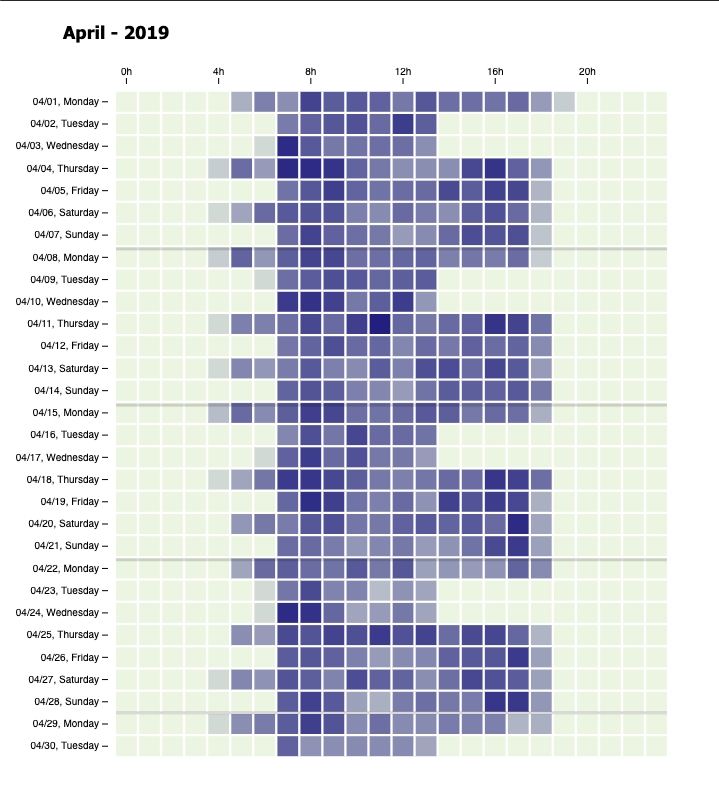
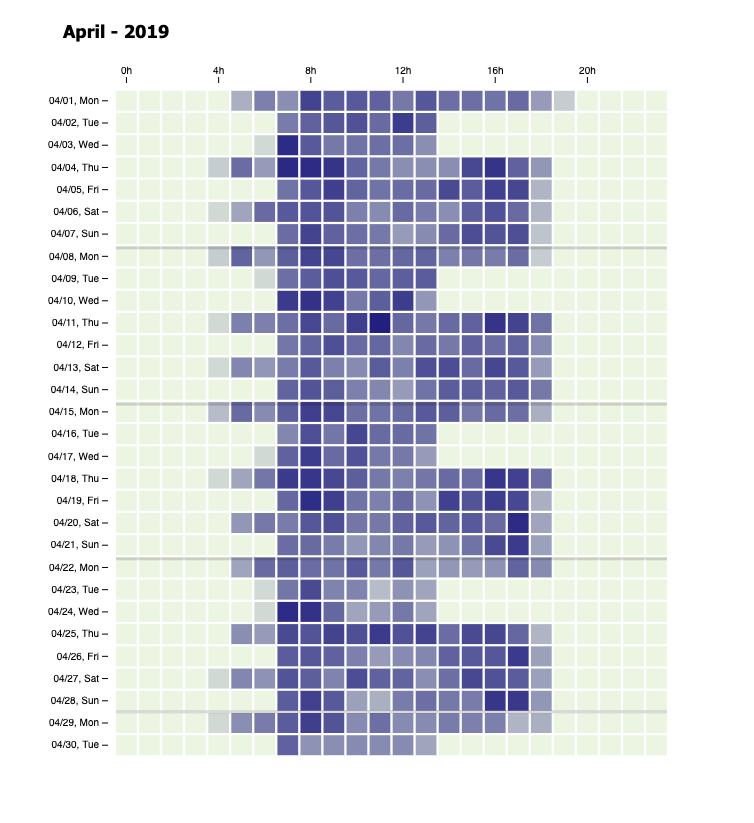
+ update readme + replace monthly image

diff --git a/README.md b/README.md
@@ -11,9 +11,11 @@ Preview
 
 #### Yearly:
 ![yearly calendar](dev/heatmap-calendar-yearly.png)
+<hr>
 
 #### Monthly:
 ![monthly calendar](dev/heatmap-calendar-monthly.png)
+<hr>
 
 #### Weekly:
 ![weekly calendar](dev/heatmap-calendar-weekly.png)
